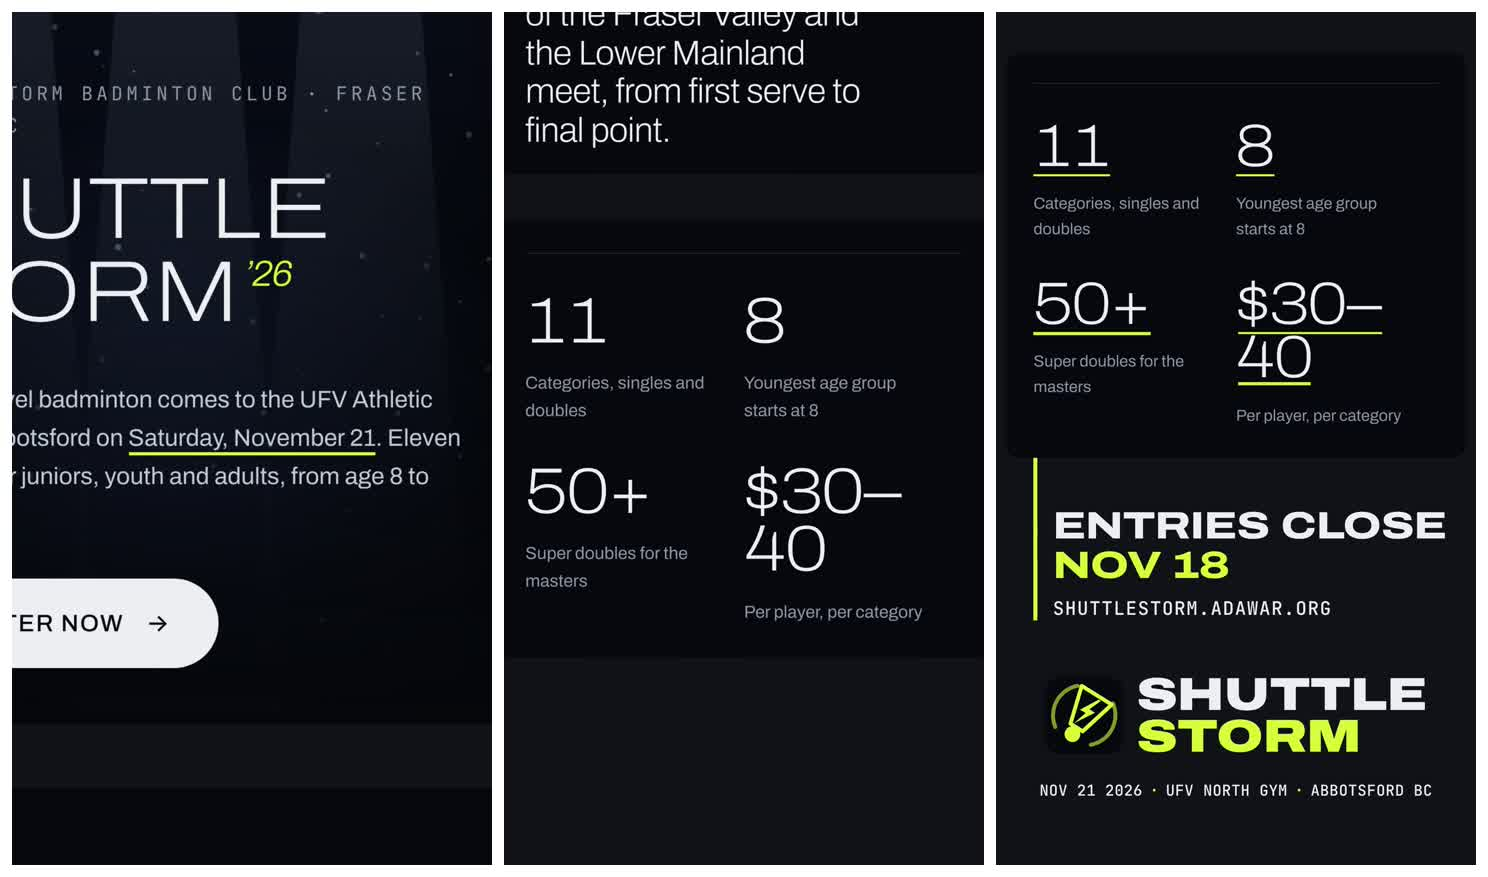
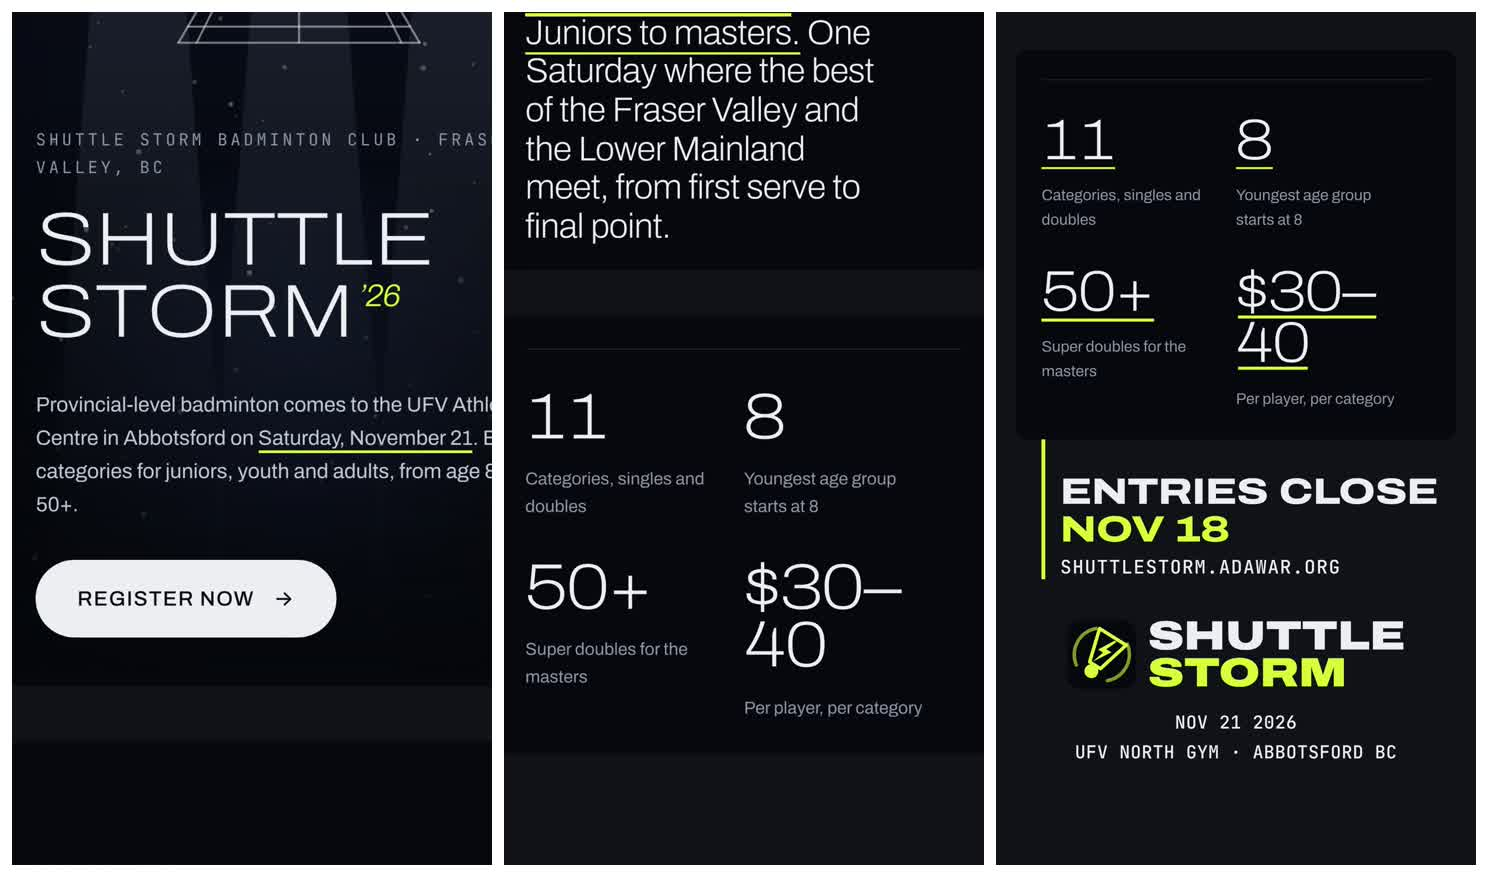
Marketing: shallower pivoted push-in, low numbers framing, lockup rises with the rule, larger two-line date; players passes review
Claude-Session: https://claude.ai/code/session_01Q1qV7aXr3g9FSPdkydwqG5

diff --git a/motion-graphics/src/ShuttleStormPromo.tsx b/motion-graphics/src/ShuttleStormPromo.tsx
@@ -46,7 +46,9 @@ const OPEN_Z = 0.95;
 const heroFocus = { x: 540, y: 1010 };
 // Push in on "Saturday, November 21", then ease back to the full ages sentence.
 const date = m.homeHero.date[0];
-const dateFocus = { x: atX(date.x + date.w / 2), y: at(heroY, HERO.top, date.y + date.h / 2) };
+// Pivot so the hero's left text edge stays in frame at 1.3×.
+const DATE_Z = 1.3;
+const dateFocus = { x: atX(18) + 540 / DATE_Z - 24, y: at(heroY, HERO.top, date.y + date.h / 2) };
 const paraFocus = { x: atX(205), y: at(heroY, HERO.top, 737) };
 
 // The "$30–40" numeral wraps onto two lines; each line gets its own mark at
@@ -54,7 +56,7 @@ const paraFocus = { x: atX(205), y: at(heroY, HERO.top, 737) };
 const NUM_MARKS = m.homeNumbers.numeralText.map((n, i) =>
   i === 3
     ? [
-        { x: n.x + 2, y: 401.5, w: 135 },
+        { x: n.x + 2, y: 399, w: 135 },
         { x: n.x + 2, y: 449, w: 68 },
       ]
     : [{ x: n.x, y: n.y + n.h - 4, w: n.w }],
@@ -64,13 +66,14 @@ const NUM_MARKS = m.homeNumbers.numeralText.map((n, i) =>
 // rule of the deadline and address, over the site film's lockup. The final
 // frame holds the whole numbers card above it, so the stack reads as one page.
 const RULE_X = atX(25);
-const endTop = numbersBottom + 110;
-const urlTop = endTop + 200;
-const ruleEnd = urlTop + 56;
-const lockupTop = ruleEnd + 120;
-const endBottom = lockupTop + 275;
+const endTop = numbersBottom + 80;
+const urlTop = endTop + 190;
+const ruleEnd = urlTop + 58;
+const lockupTop = ruleEnd + 90;
+const endBottom = lockupTop + 330;
+const END_Z = 0.96;
 // Nudged down so the statement card above stays just out of frame.
-const endCenter = (numbersY + endBottom) / 2 + 32;
+const endCenter = (numbersY + endBottom) / 2 + 80;
 
 export const ShuttleStormPromo: React.FC = () => {
   const frame = useCurrentFrame();
@@ -78,17 +81,19 @@ export const ShuttleStormPromo: React.FC = () => {
   const cam = cameraAt(frame, [
     { t: 0, ...heroFocus, z: OPEN_Z },
     { t: 8, ...heroFocus, z: OPEN_Z + 0.01 },
-    { t: 26, ...dateFocus, z: 1.5 },
-    { t: 40, ...dateFocus, z: 1.5 },
+    { t: 26, ...dateFocus, z: DATE_Z },
+    { t: 40, ...dateFocus, z: DATE_Z },
     { t: 52, ...paraFocus, z: 1.1 },
     { t: 66, ...paraFocus, z: 1.1 },
     { t: 86, x: 540, y: statementY + (STATEMENT.height * S) / 2, z: 1 },
     { t: 102, x: 540, y: statementY + (STATEMENT.height * S) / 2, z: 1 },
-    { t: 120, x: 540, y: numbersY + (NUMBERS.height * S) / 2, z: 1.08 },
-    { t: 138, x: 540, y: numbersY + (NUMBERS.height * S) / 2, z: 1.08 },
+    // The card sits low in frame, under the statement's last lines, so the
+    // rule has room to leave it.
+    { t: 120, x: 540, y: numbersY + (NUMBERS.height * S) / 2 - 200, z: 1.08 },
+    { t: 138, x: 540, y: numbersY + (NUMBERS.height * S) / 2 - 200, z: 1.08 },
     // The camera rides down with the rule's head.
-    { t: 164, x: 540, y: endCenter, z: 1 },
-    { t: PROMO.duration, x: 540, y: endCenter, z: 1 },
+    { t: 164, x: 540, y: endCenter, z: END_Z },
+    { t: PROMO.duration, x: 540, y: endCenter, z: END_Z },
   ]);
 
   const dateMark = ramp(frame, 26, 38);
@@ -98,7 +103,8 @@ export const ShuttleStormPromo: React.FC = () => {
   const rule = ramp(frame, 136, 162);
   const endLines = [0, 1].map((i) => ramp(frame, 146 + i * 6, 162 + i * 6));
   const url = ramp(frame, 166, 176);
-  const lockup = ramp(frame, 164, 182);
+  // The lockup rises on the same curve as the rule's descent.
+  const lockup = ramp(frame, 152, 178);
 
   return (
     <AbsoluteFill style={{ backgroundColor: WORLD, overflow: "hidden" }}>
@@ -140,7 +146,7 @@ export const ShuttleStormPromo: React.FC = () => {
           <RevealLines lines={[{ text: "Entries close" }, { text: "Nov 18", color: VOLT }]} progress={endLines} size={86} />
         </div>
         <div style={{ position: "absolute", left: RULE_X + 44, top: urlTop, opacity: url }}>
-          <Mono size={42} color={BONE} tracking="0.05em">
+          <Mono size={44} color={BONE} tracking="0.05em">
             shuttlestorm.adawar.org
           </Mono>
         </div>
@@ -155,7 +161,18 @@ export const ShuttleStormPromo: React.FC = () => {
             transform: `translateY(${interpolate(lockup, [0, 1], [360, 0], { ...clamp, easing: ease })}px)`,
           }}
         >
-          <Lockup size={104} />
+          <div style={{ display: "flex", flexDirection: "column", alignItems: "center", gap: 14 }}>
+            <Lockup size={96} dateLine={false} />
+            {/* The site film's date line, set large on two lines for phones. */}
+            <div style={{ marginTop: 30 }}>
+              <Mono size={42} color={BONE} tracking="0.02em">
+                Nov 21 2026
+              </Mono>
+            </div>
+            <Mono size={42} color={BONE} tracking="0.02em">
+              UFV North Gym · Abbotsford BC
+            </Mono>
+          </div>
         </div>
       </World>
     </AbsoluteFill>

diff --git a/motion-graphics/briefs/promo/.promptible/research-brief.md b/motion-graphics/briefs/promo/.promptible/research-brief.md
@@ -21,7 +21,7 @@ kickbacks-same-run-editor: the authentic working surface (the real home page) is
 
 ## Motion plan
 
-Open on the whole real hero at 0.95× so the nav mark and the card's own side padding are visible. Push in hard (1.5×) on 'Saturday, November 21' as its underline draws, then ease back to the full hero paragraph (with side margins) as the ages line is underlined. Travel to the centred statement and underline 'Eleven categories. Juniors to masters.' Travel to the numbers block and underline each numeral at its own glyph width (11, 8, 50+, and both lines of the wrapped '$30– / 40'). The volt mark then leaves the numbers card as one margin rule and the camera rides down with its head, so the payoff stays attached to the page: the final frame holds the whole numbers card, the rule beside 'ENTRIES CLOSE / NOV 18' and the site address, and the site film's lockup with a 34 px date line, centred as one stack. Settled by about frame 184 for a ~1.8 s hold (8 s total).
+Open on the whole real hero at 0.95× so the nav mark and the card's own side padding are visible. Push in (1.3×, pivoted so the hero's left text edge stays in frame) on 'Saturday, November 21' as its underline draws, then ease back to the full hero paragraph (with side margins) as the ages line is underlined. Travel to the centred statement and underline 'Eleven categories. Juniors to masters.' Travel to the numbers block, framed low under the statement's last lines, and underline each numeral at its own glyph width (11, 8, 50+, and both lines of the wrapped '$30– / 40'). The volt mark then leaves the numbers card as one margin rule and the camera rides down with its head, so the payoff stays attached to the page: the final frame holds the whole numbers card, the rule beside 'ENTRIES CLOSE / NOV 18' and the site address, and the site film's lockup rising with it, its date line set at 42 px on two lines ('Nov 21 2026' / 'UFV North Gym · Abbotsford BC') above the bottom caption zone, centred as one stack. Settled by about frame 178 for a ~2 s hold (8 s total).
 
 ## Avoid
 
